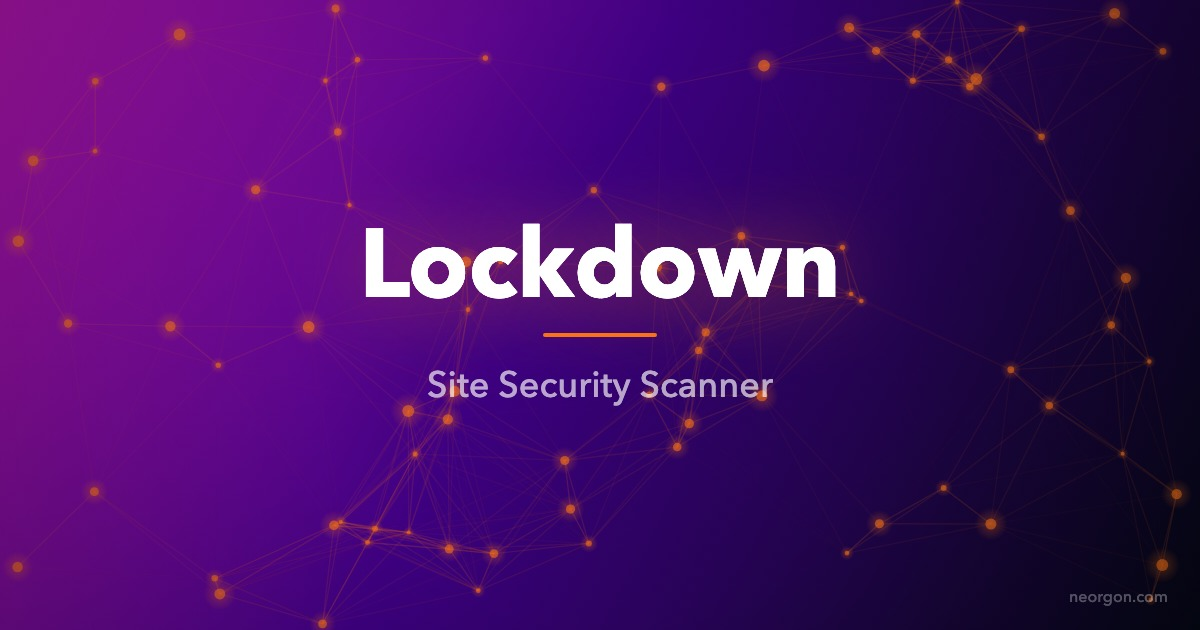
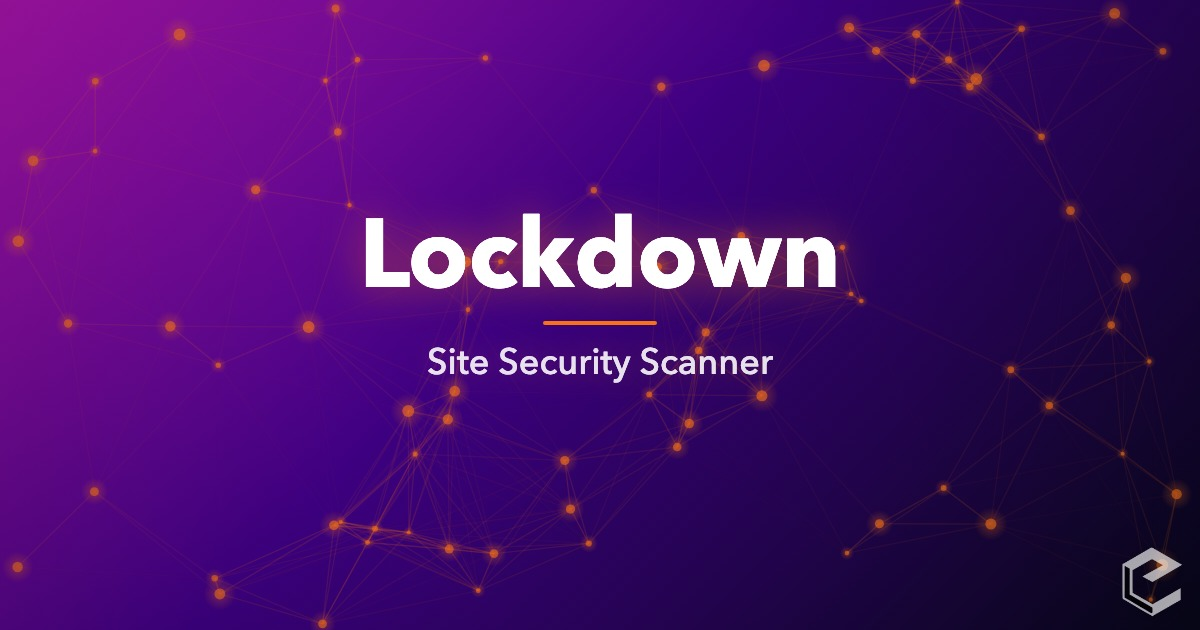
TASHIKA NI

diff --git a/index.html b/index.html
@@ -6,7 +6,7 @@
   <meta http-equiv="Content-Security-Policy" content="default-src 'self'; base-uri 'self'; form-action 'self'; frame-ancestors 'none'; script-src 'self' 'unsafe-inline' https://esm.sh cdn.jsdelivr.net cdnjs.cloudflare.com https://challenges.cloudflare.com https://www.googletagmanager.com https://www.google-analytics.com https://plausible.io; style-src 'self' 'unsafe-inline' https://fonts.googleapis.com https://pub-b597cd281a384f98a47e1f043a6c4160.r2.dev; font-src 'self' https://fonts.gstatic.com; img-src 'self' data: blob: https://*.convex.cloud https://img.clerk.com https://pub-b597cd281a384f98a47e1f043a6c4160.r2.dev https://i.ytimg.com https://yt3.ggpht.com https://www.google-analytics.com; connect-src 'self' https://*.convex.cloud https://*.clerk.accounts.dev https://*.accounts.dev https://clerk-telemetry.com https://api.clerk.com https://challenges.cloudflare.com https://*.workers.dev https://www.google-analytics.com https://www.googletagmanager.com https://plausible.io; frame-src 'self' https://challenges.cloudflare.com https://*.clerk.accounts.dev https://*.accounts.dev https://www.youtube.com https://www.youtube-nocookie.com; worker-src 'self' blob:">
   <meta name="referrer" content="strict-origin-when-cross-origin">
   <meta http-equiv="X-Content-Type-Options" content="nosniff">
-  <title>Lockdown: Site Security Scanner</title>
+  <title>Lockdown | Site Security Scanner</title>
   <meta name="description" content="Scan websites for exposed endpoints, missing headers, open files, and SEO gaps. Get a downloadable report with hardening tips">
   <meta property="og:title" content="Lockdown: Site Security Scanner">
   <meta property="og:description" content="Scan any site for security gaps, exposed files, and missing basics">